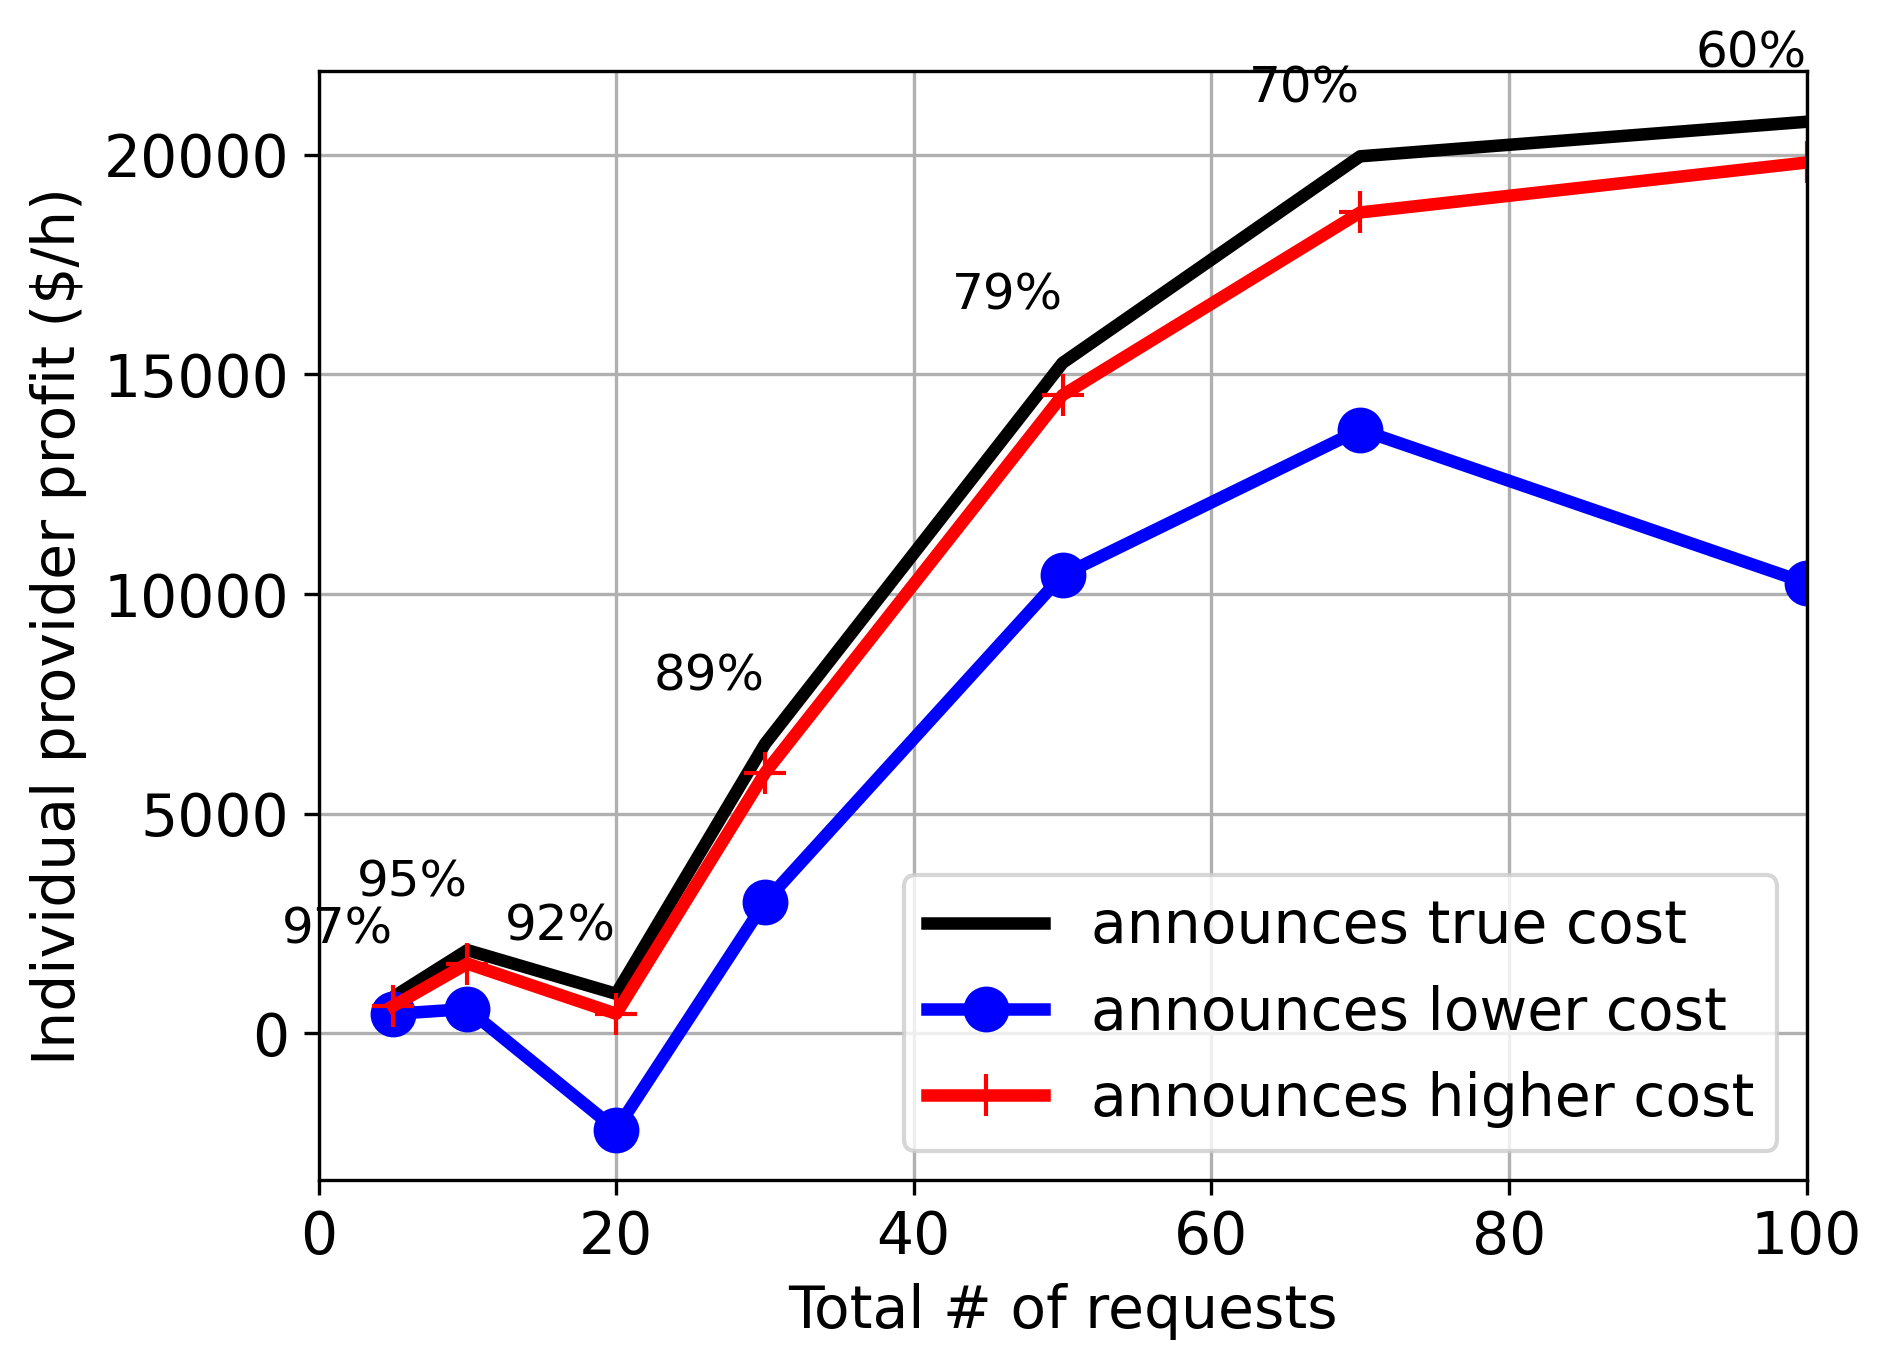
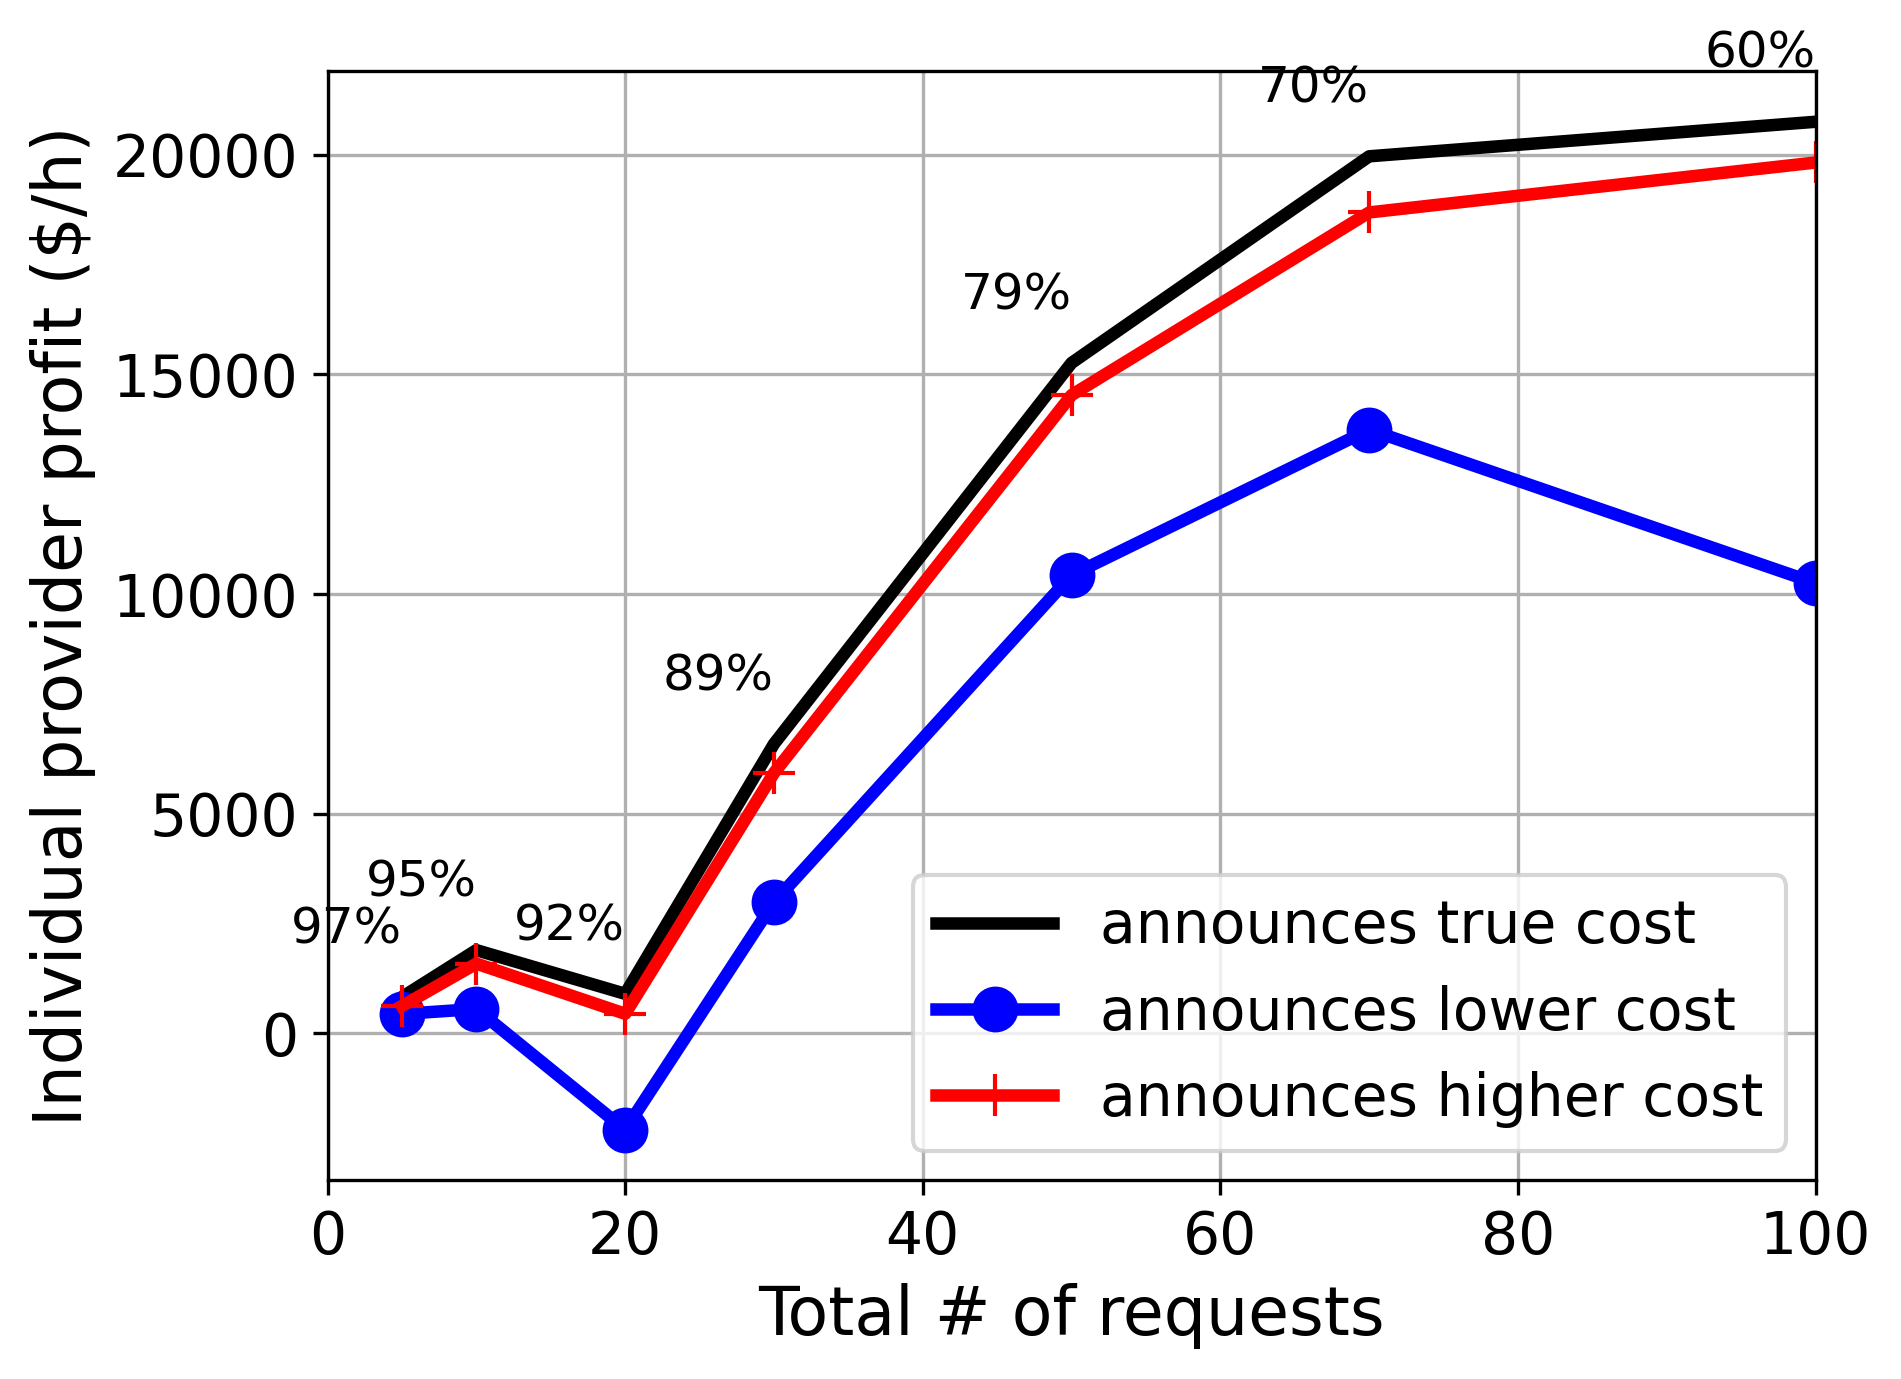
ok

diff --git a/plot_VCG.py b/plot_VCG.py
@@ -1,4 +1,5 @@
 import matplotlib.pyplot as plt
+import numpy as np
 import re
 
 Results = {}
@@ -137,22 +138,32 @@ R = [5, 10, 20, 30, 50, 70, 100]
 individual_Profit = []
 individual_Profit_l = []
 individual_Profit_h = []
+standAlone = []
+Final_Profit = []
 utilizationn = []
+surplus = []
 for r in R:
     strategic_provider_individual_Profit = 0
     strategic_provider_individual_Profit_l = 0
     strategic_provider_individual_Profit_h = 0
+    stand_alone_profit = 0
+    final_profit = 0
     utilizationn_agr = 0
     for t in T:
         strategic_provider = Results[i, t, l, r]['strategic_provider']
         strategic_provider_individual_Profit += Results[i, t, l, r]['Individual_Profit_VCG'][strategic_provider-1]/len(T)
         strategic_provider_individual_Profit_l += Results[i, t, l, r]['Individual_Profit_VCG_l'][strategic_provider-1]/len(T)
         strategic_provider_individual_Profit_h += Results[i, t, l, r]['Individual_Profit_VCG_h'][strategic_provider-1]/len(T)
+        stand_alone_profit += Results[i, t, l, r]['Stand_Alone_profit'][strategic_provider - 1] / len(T)
+        final_profit += Results[i, t, l, r]['Final_InfSP_Profit'][strategic_provider - 1] / len(T)
+        surplus.append(Results[i, t, l, r]['Surplus'])
         utilizationn_agr += Results[i, t, l, r]['utilization']/len(T)
 
     individual_Profit.append(strategic_provider_individual_Profit)
     individual_Profit_l.append(strategic_provider_individual_Profit_l)
     individual_Profit_h.append(strategic_provider_individual_Profit_h)
+    standAlone.append(stand_alone_profit)
+    Final_Profit.append(final_profit)
     utilizationn.append(utilizationn_agr)
 
 plt.rcParams.update({'font.size': 14})
@@ -173,13 +184,88 @@ plt.xlim(0, max(R))
 plt.grid()
 
 # naming the x axis
-plt.xlabel('Total # of requests')
+plt.xlabel('Total # of requests', fontsize=16)
 # naming the y axis
-plt.ylabel('Individual provider profit ($/h)')
+plt.ylabel('Individual provider profit ($/h)', fontsize=16)
 
 # giving a title to my graph
 # plt.title('Total Profit, ' + str(i) + ' Providers, ' + str(l) + ' Locations')
 plt.legend(['announces true cost',  'announces lower cost', 'announces higher cost'])
 plt.savefig('Strategic Behavior, ' + str(i) + ' Providers, ' + str(l) + ' Locations', dpi=300, bbox_inches='tight')
+plt.show()
+plt.close('all')
+
+# ##############################################################################################
+# ##############################################################################################
+plt.rcParams.update({'font.size': 14})
+plt.rcParams.update({'axes.labelsize': 14})
+
+plt.plot(R, individual_Profit, color='black', linestyle='solid', linewidth=3, marker='', markerfacecolor='black', markersize=10)
+plt.plot(R, standAlone, color='blue', linestyle='solid', linewidth=3, marker='o', markerfacecolor='blue', markersize=10)
+plt.plot(R, Final_Profit, color='red', linestyle='solid', linewidth=3, marker='+', markerfacecolor='red', markersize=10)
+
+# counter = 0
+# for ii, jj in zip(R, individual_Profit):
+#     temp = int(round(utilizationn[counter] * 100, 2))
+#     plt.text(ii, jj + 1000, f'{temp}' + '%', fontsize=12, color='black', ha='right', va='bottom')
+#     counter += 1
+
+
+plt.xlim(0, max(R))
+plt.grid()
+
+# naming the x axis
+plt.xlabel('Total # of requests', fontsize=16)
+# naming the y axis
+plt.ylabel('Individual provider profit ($/h)', fontsize=16)
+
+# giving a title to my graph
+# plt.title('Total Profit, ' + str(i) + ' Providers, ' + str(l) + ' Locations')
+plt.legend(['Federation Profit - VCG only', 'StandAlone Profit', 'Federation Profit - Budget imbalance mitigation'], loc='upper left')
+plt.savefig('StandAlone, ' + str(i) + ' Providers, ' + str(l) + ' Locations', dpi=300, bbox_inches='tight')
+plt.show()
+plt.close('all')
+
+# ##############################################################################################
+# ##############################################################################################
+
+plt.rcParams.update({'font.size': 14})
+plt.rcParams.update({'axes.labelsize': 14})
+
+# rr = []
+# for _ in R:
+#     for times in range(len(T)):
+#         rr.append(_)
+rr = [i for i in range(1, 18*len(R)+1)]
+
+colors = plt.cm.Dark2(np.arange(len(R)*18) // 18 / (len(R)-1))
+# colors = plt.cm.Set3(np.arange(len(R)*18) // 18 / (len(R)-1))
+# colors = plt.cm.Blues(np.arange(len(R)*18) // 18 / (len(R)-1))
+
+plt.bar(rr, surplus, color=colors, linestyle='solid')
+
+plt.xlim(0, max(rr))
+# Add vertical gridlines at every 18th bar
+for i in range(18, len(rr), 18):
+    plt.axvline(i + 0.5, color='gray', linewidth=0.5)
+
+# Add horizontal gridlines
+plt.grid(axis='y', linestyle='--', linewidth=0.5)
+# plt.grid()
+
+# naming the x axis
+plt.xlabel('Total # of requests', fontsize=16)
+# naming the y axis
+plt.ylabel('Surplus ($/h)', fontsize=16)
+
+# Set the values at the center of each grid box
+values = [5, 10, 20, 30, 50, 70, 100]
+xticks = [(18*i + 18*(i+1))/2 for i in range(len(R))]
+plt.xticks(xticks, values)
+
+# giving a title to my graph
+# plt.title('Total Profit, ' + str(i) + ' Providers, ' + str(l) + ' Locations')
+# plt.legend(['Surplus' ])
+plt.savefig('Surplus, ' + str(i) + ' Providers, ' + str(l) + ' Locations', dpi=300, bbox_inches='tight')
 plt.show()
 plt.close('all')
